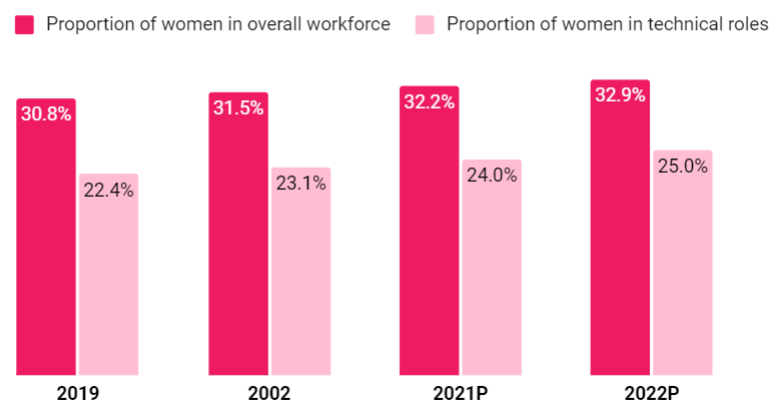
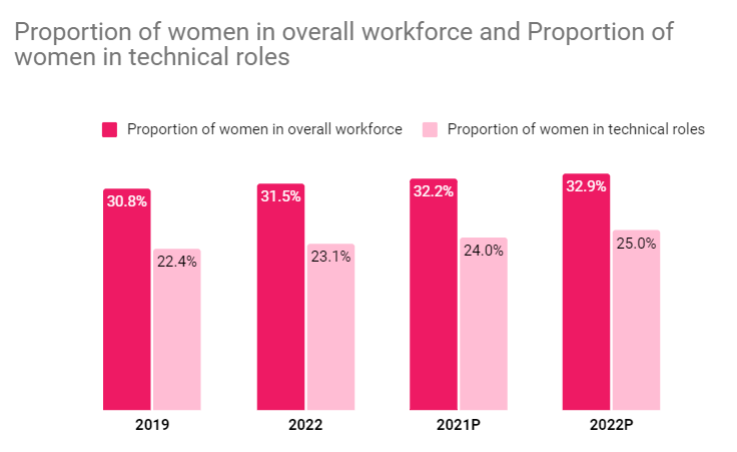
Update 2022-05-11-the-xl-way-closing-the-gender-gap.md (#204)
Bar chart correction 2022

diff --git a/_posts/2022-05-11-the-xl-way-closing-the-gender-gap.md b/_posts/2022-05-11-the-xl-way-closing-the-gender-gap.md
@@ -47,7 +47,7 @@ Although the talent search is an inherent problem in the IT industry, it should 
 ![Source: Future of Jobs Survey, World Economic Forum.](/images/the-xl-way-closing-the-gender-gap/Untitled%201.png)
 *Source: Future of Jobs Survey, World Economic Forum.*
 
-## Beginnings — 8M 2022
+## Beginnings — 8M 2021
 
 ### What we did
 
